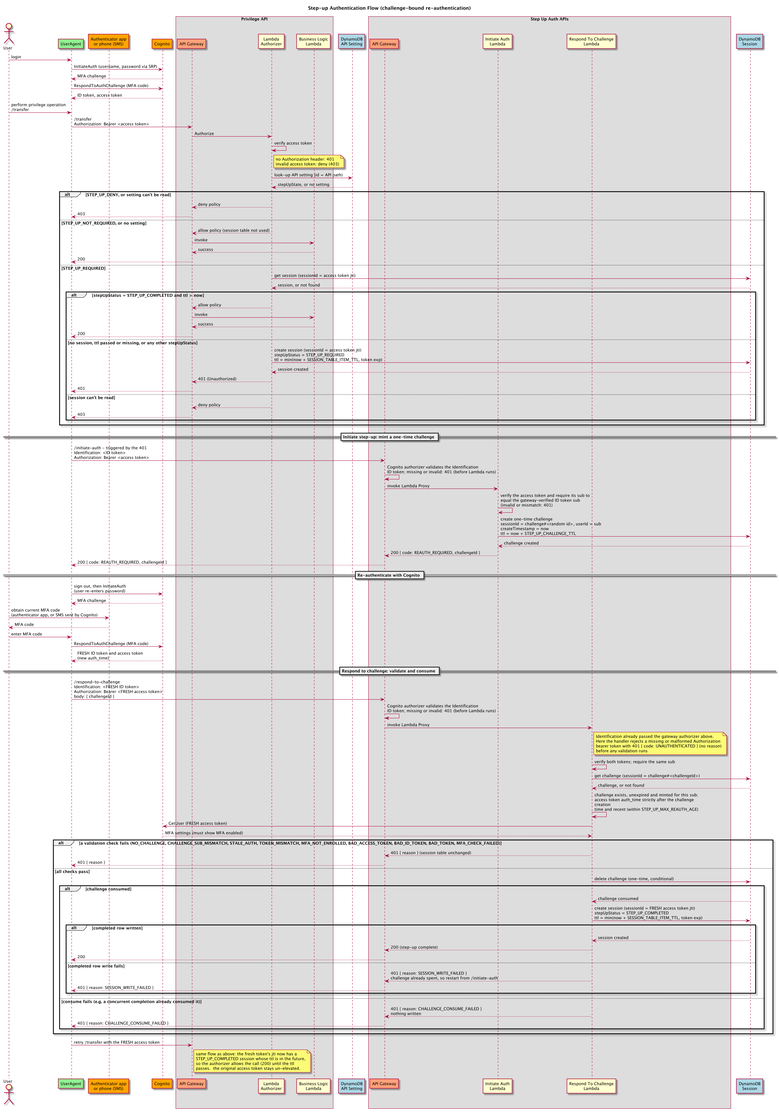
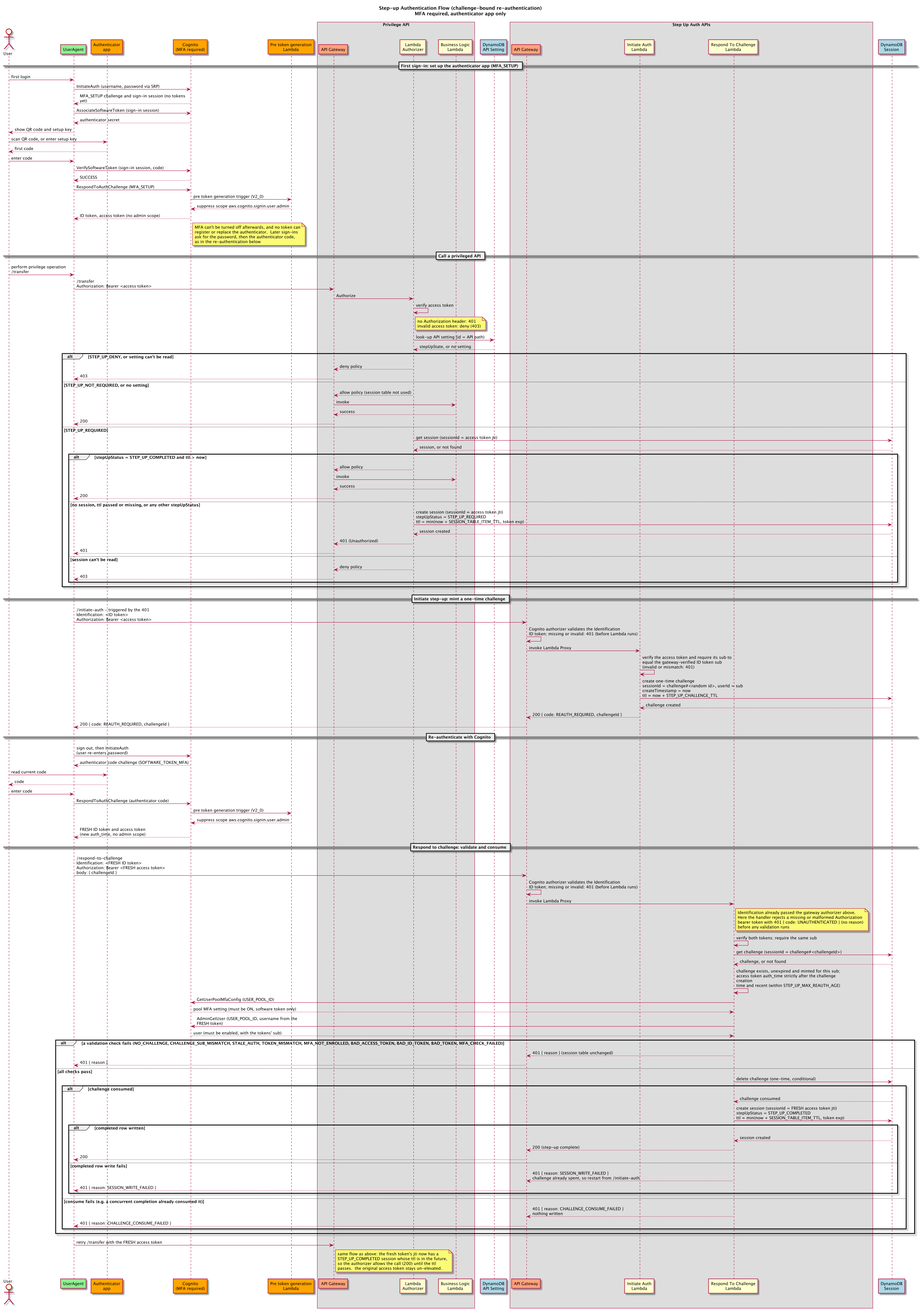
Documented required MFA and browser tokens without the user admin scope

diff --git a/README.md b/README.md
@@ -6,11 +6,12 @@
 >
 > - **Session expiry is now enforced in code.** Earlier versions relied on DynamoDB TTL to end a step-up session, and the authorizer didn't check `ttl`. Because DynamoDB can take days to delete expired items, a completed step-up stayed valid until the access token expired (up to 60 minutes by default), whatever `SESSION_TABLE_ITEM_TTL` was set to. The authorizer now rejects a session once its `ttl` has passed, and `ttl` is never later than the access token's expiry.
 > - **Step-up now requires a fresh re-authentication.** Earlier versions proved step-up by verifying or enrolling an MFA factor (an MFA enrolment or attribute-verification call) that the holder of a stolen access token could satisfy on its own. Step-up is now a fresh Cognito sign-in (password plus the user's existing MFA) bound to a one-time, server-issued challenge: the completion is accepted only when the freshly authenticated token's `auth_time` falls after the challenge was created, so a stolen access, id or refresh token can no longer complete step-up. See [Initiate Endpoint](#initiate-endpoint) and [Respond to Challenge Endpoint](#respond-to-challenge-endpoint).
+> - **Browser tokens can no longer manage MFA, and MFA is required.** Cognito access tokens carry the `aws.cognito.signin.user.admin` scope by default, so in earlier versions the holder of a stolen access token could turn MFA off, register their own authenticator or change the phone number before a step-up re-authentication. A pre token generation Lambda trigger now removes that scope from every access token the user pool issues. The user pool requires MFA with an authenticator app as the only factor: each user sets up the authenticator at first sign-in, and nobody can turn MFA off or change the factor from the app afterwards. The authenticator a step-up re-authentication uses is therefore always the one set up before the step-up challenge. The SMS factor and the web app's Setting page are removed. See [Security model and limitations](#security-model-and-limitations).
 > - **Amazon Cognito native step-up.** Amazon Cognito now offers [native step-up authentication with `acr`/`amr` claims](https://docs.aws.amazon.com/cognito/latest/developerguide/cognito-user-pools-step-up-authentication.html) (rolling out); this sample does not depend on it.
 > - **Other fixes:** the respond-to-challenge function now waits for the access token signature check and for the session update to be saved. Debug logs redact AWS credentials and tokens. The Lambda role can access only this solution's DynamoDB tables. The authorizer denies requests it can't evaluate, and an API's `STEP_UP_DENY` setting now applies even when the caller has completed step-up.
 > - **Platform:** the Lambda functions run on Node.js 24, the deployment uses AWS CDK v2, and the web app uses Amplify JS v6.
 > - **If you deployed an earlier version with `NODE_ENV=development`,** its Lambda log groups may contain the functions' temporary AWS credentials and users' tokens. Restrict access to those log groups or delete them.
-> - **Blog posts:** [Part 1](https://aws.amazon.com/blogs/security/implement-step-up-authentication-with-amazon-cognito-part-1-solution-overview/) and [Part 2](https://aws.amazon.com/blogs/security/implement-step-up-authentication-with-amazon-cognito-part-2-deploy-and-test-the-solution/) describe the original design. Where they differ from this README, this README and the code are current. In particular, the posts describe step-up as entering a one-time code, while this sample now requires a fresh re-authentication (password, then the MFA code) bound to a one-time challenge; and DynamoDB TTL now only removes old session rows, it doesn't end a step-up session.
+> - **Blog posts:** [Part 1](https://aws.amazon.com/blogs/security/implement-step-up-authentication-with-amazon-cognito-part-1-solution-overview/) and [Part 2](https://aws.amazon.com/blogs/security/implement-step-up-authentication-with-amazon-cognito-part-2-deploy-and-test-the-solution/) describe the original design. Where they differ from this README, this README and the code are current. In particular, the posts describe step-up as entering a one-time code, while this sample now requires a fresh re-authentication (password, then the MFA code) bound to a one-time challenge; the posts describe one-time codes sent by SMS and choosing an MFA method on a Setting page, while this sample now requires an authenticator app that each user sets up at first sign-in; and DynamoDB TTL now only removes old session rows, it doesn't end a step-up session.
 
 This repository contains accompanying source code for the AWS Security Blog posts [Implement step-up authentication with Amazon Cognito, Part 1: Solution overview](https://aws.amazon.com/blogs/security/implement-step-up-authentication-with-amazon-cognito-part-1-solution-overview/) and [Part 2: Deploy and test the solution](https://aws.amazon.com/blogs/security/implement-step-up-authentication-with-amazon-cognito-part-2-deploy-and-test-the-solution/).
 
@@ -36,17 +37,17 @@ The reference architecture is shown below.
 
 Let us traverse how user's API's request are handled by the solution, and how the user state is "elevated" by going through additional challenge before they can successfully invoke a privilege API.
 
-1. It is important to note that user must authenticate with Cognito initially.  As a result, they must have a valid access token generated by Cognito User Pool.
+1. It is important to note that user must authenticate with Cognito initially.  As a result, they must have a valid access token generated by Cognito User Pool.  The user pool requires MFA with an authenticator app (TOTP).  At a user's first sign-in, Cognito raises an `MFA_SETUP` challenge and issues no token until the user sets up the authenticator app: the web app shows a QR code and the setup key, and the user confirms with a first code.  Later sign-ins ask for the password and then the authenticator code.  A pre token generation Lambda trigger removes the `aws.cognito.signin.user.admin` scope from every access token the pool issues, so the token works for the sample APIs but can't call Cognito's self-service user operations.
 2. User then performs a privileged API invocation and passes access token in Authorization header.
 3. The API is protected using a Lambda Authorizer and the invocation triggers Lambda Authorizer.  Authorizer first validates the token using Cognito User Pool public key.  If the Authorization header is missing, the authorizer returns 401.  If the token is invalid, the authorizer returns a deny policy and the caller gets 403.
 4. Authorizer performs a look-up in DynamoDB setting table to check whether current request needs elevated privilege (or step-up privilege).  In setting table, you can define which API actions requires elevated privilege.  You can additionally bundle APIs into a group by defining the group attribute.  This allows you to further segregate privileged API's especially in a large-scale deployment.  If the API's setting is `STEP_UP_DENY`, the authorizer returns a deny policy (403), even if the user has completed step-up.  If the API has no setting, or its setting is `STEP_UP_NOT_REQUIRED`, the authorizer allows the call without checking the session table.
 5. If API request requires elevated privilege (`STEP_UP_REQUIRED`), Authorizer will check for an existing step-up session for this specific user in session table.  The key for this table will be the “JTI” of the access_token (which can be obtained after token verification).
 6. If a completed step-up session (`STEP_UP_COMPLETED`) exists and its `ttl` hasn't passed, then authorization will be given.  Otherwise the authorizer creates a new `STEP_UP_REQUIRED` session for the access_token JTI, and an un-authorized access response (401 HTTP code) will be sent back from lambda authorizer indicating that user requires elevated privilege.
 7. Prompted by the 401, the client app calls the /initiate-auth API.  This endpoint is protected by the API Gateway Cognito authorizer, which verifies the ID token passed in the `Identification` header.  The client also passes its access token in the `Authorization` header.
-8. The call is forwarded to the initiate Lambda.  The function verifies the caller's access token and requires its `sub` to equal the `sub` of the gateway-verified ID token, so a caller can only start step-up for the user Cognito authenticated (a forged or victim-substituted access token is rejected with 401).  It then mints a one-time, server-bound challenge: a random 128-bit `challengeId`, a `challenge#<challengeId>` row in the session table holding the user's `sub` and a server-set creation time, and a `ttl` of the creation time plus `STEP_UP_CHALLENGE_TTL`.  It returns `{"code":"REAUTH_REQUIRED","challengeId":"..."}`.  The initiate function no longer reads the user's MFA settings and sends no SMS.
-9. Prompted by `REAUTH_REQUIRED`, the client re-authenticates the user with Cognito: it signs the user out locally and signs in again with the password, then completes the MFA challenge Cognito raises (a code from the authenticator app for Software Token MFA, or an SMS code Cognito sends for SMS MFA).  A wrong password or wrong code can be retried.  This produces a fresh ID token and access token with a new `auth_time`.
-10. The client calls the /respond-to-challenge API, passing the fresh access token in the `Authorization` header, the fresh ID token in the `Identification` header and `{"challengeId"}` in the JSON body.  This endpoint is also protected by the Cognito authorizer.  The respond Lambda accepts step-up only when all of these hold: both tokens verify (signature, expiry, issuer, `token_use`, app client) and share the same `sub`; the challenge exists, has not expired and was minted for that `sub`; the access token's `auth_time` is after the challenge creation time (minus a small clock-skew allowance) and within `STEP_UP_MAX_REAUTH_AGE` of now (and not implausibly in the future); and Cognito `GetUser` shows the user has an MFA factor enabled.  A stolen or merely refreshed token fails the `auth_time` check because its authentication predates the challenge.
-11. The function validates first and only then writes.  A failure during validation (bad or mismatched tokens, a missing/expired/wrong-subject challenge, a stale `auth_time`, or no MFA enrolled) returns a 401 and leaves the session table unchanged.  If every check passes, it consumes the one-time challenge with a single conditional delete (so it cannot be replayed) and *then* writes a `STEP_UP_COMPLETED` row keyed by the **fresh** access token's JTI, with `ttl = min(now + SESSION_TABLE_ITEM_TTL, access token exp)`.  Because the challenge is consumed before the completed row is written, a failure to write that row (`SESSION_WRITE_FAILED`) leaves the challenge already spent, so the user must start a new step-up from /initiate-auth.  Every failure from the respond Lambda returns a short machine-readable `reason` (see [Respond to Challenge Endpoint](#respond-to-challenge-endpoint)).  The two header guards are separate: a missing or invalid `Identification` ID token is rejected by the API Gateway Cognito authorizer (its own 401) before this Lambda runs; once `Identification` is accepted, a missing or malformed `Authorization` bearer token is rejected by the handler with `{"code":"UNAUTHENTICATED"}` and no `reason`.
+8. The call is forwarded to the initiate Lambda.  The function verifies the caller's access token and requires its `sub` to equal the `sub` of the gateway-verified ID token, so a caller can only start step-up for the user Cognito authenticated (a forged or victim-substituted access token is rejected with 401).  It then mints a one-time, server-bound challenge: a random 128-bit `challengeId`, a `challenge#<challengeId>` row in the session table holding the user's `sub` and a server-set creation time, and a `ttl` of the creation time plus `STEP_UP_CHALLENGE_TTL`.  It returns `{"code":"REAUTH_REQUIRED","challengeId":"..."}`.  The initiate function doesn't read the user's MFA settings and sends no message to the user.
+9. Prompted by `REAUTH_REQUIRED`, the client re-authenticates the user with Cognito: it signs the user out locally and signs in again with the password, then completes the MFA challenge Cognito raises with a code from the user's authenticator app.  A wrong password or wrong code can be retried.  This produces a fresh ID token and access token with a new `auth_time`.
+10. The client calls the /respond-to-challenge API, passing the fresh access token in the `Authorization` header, the fresh ID token in the `Identification` header and `{"challengeId"}` in the JSON body.  This endpoint is also protected by the Cognito authorizer.  The respond Lambda accepts step-up only when all of these hold: both tokens verify (signature, expiry, issuer, `token_use`, app client) and share the same `sub`; the challenge exists, has not expired and was minted for that `sub`; the access token's `auth_time` is after the challenge creation time (minus a small clock-skew allowance) and within `STEP_UP_MAX_REAUTH_AGE` of now (and not implausibly in the future); Cognito `AdminGetUser` shows a live, enabled user whose `sub` matches the tokens; and Cognito `GetUserPoolMfaConfig` shows the user pool still requires MFA with the authenticator app as its only factor.  Because MFA is required, the fresh sign-in completed MFA with the authenticator set up at the user's first sign-in, before this challenge.  A stolen or merely refreshed token fails the `auth_time` check because its authentication predates the challenge.
+11. The function validates first and only then writes.  A failure during validation (bad or mismatched tokens, a missing/expired/wrong-subject challenge, a stale `auth_time`, or a failed user or MFA check) returns a 401 and leaves the session table unchanged.  If every check passes, it consumes the one-time challenge with a single conditional delete (so it cannot be replayed) and *then* writes a `STEP_UP_COMPLETED` row keyed by the **fresh** access token's JTI, with `ttl = min(now + SESSION_TABLE_ITEM_TTL, access token exp)`.  Because the challenge is consumed before the completed row is written, a failure to write that row (`SESSION_WRITE_FAILED`) leaves the challenge already spent, so the user must start a new step-up from /initiate-auth.  Every failure from the respond Lambda returns a short machine-readable `reason` (see [Respond to Challenge Endpoint](#respond-to-challenge-endpoint)).  The two header guards are separate: a missing or invalid `Identification` ID token is rejected by the API Gateway Cognito authorizer (its own 401) before this Lambda runs; once `Identification` is accepted, a missing or malformed `Authorization` bearer token is rejected by the handler with `{"code":"UNAUTHENTICATED"}` and no `reason`.
 12. The client re-tries the privileged API with the **fresh** access token.  The authorizer now finds its completed session and allows the call (200) until the `ttl` passes; other protected APIs that require step-up also succeed until then.  The original access token stays un-elevated, so a copy of it cannot ride along on the completed step-up.
 
 These sequences are better illustrated in the sequence diagram below.
@@ -133,7 +134,7 @@ Authorizer uses purpose build `auth-sdk` code to interface with both `sessions` 
 
 ### Initiate Endpoint
 
-The initiate endpoint is called by the frontend after the API Gateway returns a 401, to start the step-up flow.  Its role is to mint a one-time, server-bound challenge that the user will later prove they can satisfy by re-authenticating.  It does **not** read the user's MFA configuration and sends no SMS.
+The initiate endpoint is called by the frontend after the API Gateway returns a 401, to start the step-up flow.  Its role is to mint a one-time, server-bound challenge that the user will later prove they can satisfy by re-authenticating.  It does **not** read the user's MFA configuration and sends no message to the user.
 
 The endpoint requires no body parameters.  It is protected by the API Gateway Cognito authorizer, which verifies the Cognito ID token passed in the `Identification` header; the client also passes its access token in the `Authorization` header.  The Lambda cryptographically verifies that access token and requires its `sub` to equal the `sub` of the gateway-verified ID token.  Because the challenge subject comes from the gateway-verified ID token, not from the unverified `Authorization` value, a caller can only mint a challenge for the exact user Cognito authenticated; a forged or victim-substituted access token is rejected with a generic 401.
 
@@ -141,7 +142,7 @@ It then creates a challenge record in the session table: a random 128-bit `chall
 
 ### Respond to Challenge Endpoint
 
-The respond-to-challenge endpoint completes step-up.  Step-up is proven by a *fresh re-authentication that this step-up request prompted*, not by verifying or enrolling an MFA factor.  Prompted by `REAUTH_REQUIRED`, the client re-authenticates the user with Cognito (the password, then the user's existing MFA — a Software Token code from an authenticator app, or an SMS code Cognito sends), which yields a fresh ID token and access token.  The client then calls this endpoint with the fresh access token in the `Authorization` header, the fresh ID token in the `Identification` header and `{"challengeId"}` (from /initiate-auth) in the JSON body.  Like initiate, it is protected by the Cognito authorizer.
+The respond-to-challenge endpoint completes step-up.  Step-up is proven by a *fresh re-authentication that this step-up request prompted*, not by verifying or enrolling an MFA factor.  Prompted by `REAUTH_REQUIRED`, the client re-authenticates the user with Cognito (the password, then a code from the authenticator app the user set up at first sign-in), which yields a fresh ID token and access token.  The client then calls this endpoint with the fresh access token in the `Authorization` header, the fresh ID token in the `Identification` header and `{"challengeId"}` (from /initiate-auth) in the JSON body.  Like initiate, it is protected by the Cognito authorizer.
 
 The Lambda accepts step-up only when all of the following hold:
 
@@ -150,11 +151,14 @@ The Lambda accepts step-up only when all of the following hold:
 - the one-time challenge for the presented `challengeId` exists, has not expired and was minted for that same `sub`;
 - the access token's `auth_time` is strictly after the challenge's creation time, allowing only `STEP_UP_CHALLENGE_CLOCK_SKEW` seconds of clock skew — a stolen or merely refreshed token, whose authentication predates the challenge, is rejected here;
 - the authentication is recent: `auth_time` is within `STEP_UP_MAX_REAUTH_AGE` of now, and not more than `STEP_UP_REAUTH_FUTURE_SKEW` seconds in the future;
-- Cognito [GetUser](https://docs.aws.amazon.com/cognito-user-identity-pools/latest/APIReference/API_GetUser.html) (authorized by the fresh access token) shows an MFA factor enabled, so the fresh sign-in necessarily completed MFA.
+- Cognito [AdminGetUser](https://docs.aws.amazon.com/cognito-user-identity-pools/latest/APIReference/API_AdminGetUser.html) returns the token's user, the user is not disabled, and the user's `sub` attribute equals the tokens' `sub`; otherwise, or if the call fails, the reason is `MFA_CHECK_FAILED`;
+- Cognito [GetUserPoolMfaConfig](https://docs.aws.amazon.com/cognito-user-identity-pools/latest/APIReference/API_GetUserPoolMfaConfig.html) shows the user pool requires MFA (`MfaConfiguration` `ON`) with the software token (authenticator app) enabled and no SMS or email MFA; otherwise the reason is `MFA_NOT_ENROLLED`, and if the call fails, `MFA_CHECK_FAILED`.  Because the pool requires MFA and no token can change a user's factor, the fresh sign-in completed MFA with the authenticator the user set up at first sign-in, which predates the challenge.  The function doesn't use the per-user MFA list that `AdminGetUser` returns: Cognito leaves it empty for a user who set up the authenticator through the first sign-in `MFA_SETUP` challenge, although the pool still requires that user's authenticator code at every sign-in.
+
+These two calls use the respond-to-challenge function's role, which may call `cognito-idp:AdminGetUser` and `cognito-idp:GetUserPoolMfaConfig` on this user pool only.  The function reads the pool id from its `USER_POOL_ID` environment variable and fails closed with `MFA_CHECK_FAILED` if it is missing, isn't a user pool id, or names a different pool than `COGNITO_USER_POOL_ARN`.
 
 The checks run in that order, and the `sessions` table is written only after they all pass.  A validation failure returns a 401, leaves the `sessions` table unchanged, and carries a short machine-readable `reason` — one of `NO_CHALLENGE`, `CHALLENGE_SUB_MISMATCH`, `STALE_AUTH`, `TOKEN_MISMATCH`, `MFA_NOT_ENROLLED`, `BAD_ACCESS_TOKEN`, `BAD_ID_TOKEN`, `BAD_TOKEN` or `MFA_CHECK_FAILED` — that never reveals a secret.  When every check passes, the function consumes the one-time challenge with a single conditional delete (so replaying the same challenge cannot complete a second time) and *then* writes a `STEP_UP_COMPLETED` row keyed by the **fresh** access token's JTI with `ttl = min(now + SESSION_TABLE_ITEM_TTL, access token exp)`.  Two more `reason` codes come from this final stage and are not symmetric with the validation failures: `CHALLENGE_CONSUME_FAILED` means the conditional delete didn't succeed (for example a concurrent completion consumed the challenge first), so nothing is written; `SESSION_WRITE_FAILED` means the challenge was already consumed but the completed row couldn't be written, which leaves the challenge spent and requires the user to start a new step-up from /initiate-auth.  Separately, the endpoint has two header guards.  The API Gateway Cognito authorizer validates the `Identification` ID token, so a missing or invalid `Identification` token is rejected by the gateway's authorizer with a 401 before this Lambda runs.  Once `Identification` is accepted, a request whose `Authorization` bearer token is missing or malformed is rejected by the handler before the responder runs, with a 401 body of `{"code":"UNAUTHENTICATED"}` and no `reason`.  A completed session is valid until its `ttl` passes; after that, the authorizer treats it as expired.  DynamoDB TTL deletes the item later, which can take a few days.
 
-The step-up proof no longer uses `VerifySoftwareToken` or `VerifyUserAttribute`, and the initiate endpoint no longer calls `GetUserAttributeVerificationCode`; the old `SMS_STEP_UP`, `SOFTWARE_TOKEN_STEP_UP` and `MAYBE_SOFTWARE_TOKEN_STEP_UP` codes are gone.  MFA **enrolment** in the web app's Setting page is unchanged and still uses `AssociateSoftwareToken` / `VerifySoftwareToken`, which is their correct purpose.
+The step-up proof no longer verifies or enrols an MFA factor, and the earlier one-time-code calls and their MFA method codes are gone.  A user sets up MFA once, at first sign-in: Cognito's `MFA_SETUP` challenge calls `AssociateSoftwareToken` and `VerifySoftwareToken` with the sign-in session, not with an access token, and only then issues tokens.  After that, the user can't change or turn off MFA: the web app has no MFA settings page, the sample has no MFA API, and the access tokens lack the scope that Cognito's own MFA operations require.  See [Security model and limitations](#security-model-and-limitations).
 
 ### Step-up configuration
 
@@ -180,7 +184,8 @@ This solution can be deployed using CDK and it will create a working reference i
 
 CDK will create several resources in your account as below:
 
-- Amazon Cognito User pool that is used as user registry
+- Amazon Cognito User pool that is used as user registry.  It requires MFA with the authenticator app (software token) as the only factor, has no SMS factor, requires `email` and `phone_number` at registration and doesn't remember devices.  It uses the Essentials feature plan, which the pre token generation trigger needs.
+- A pre token generation Lambda trigger (event version V2_0, inline code in `deployment/lib/infrastructure/pre-token-generation.ts`) that removes the `aws.cognito.signin.user.admin` scope from every access token the user pool issues.  It has its own role, which can only write the trigger's log group.
 - API Gateway API containing four resources,
   - two sample resources protected by the Lambda authorizer: `/transfer` (POST), which requires step-up authentication once you add its setting (see [Testing Step-up Solution](#testing-step-up-solution)), and `/info` (GET)
   - initiate-auth resource to trigger the step-up challenge response
@@ -254,7 +259,7 @@ cd deployment && ./undeploy.sh
 
 `undeploy.sh` runs `cdk destroy --all --force`.  CDK synthesizes the app first, so the Lambda zip files from `build.sh` must still be under `source/<module>/build/compressed/`.  The Cognito user pool, the DynamoDB tables and the web bucket use a `DESTROY` removal policy, so this deletes the Cognito user pool (and its users), the DynamoDB tables (and their items) and the web bucket (and its objects).  `undeploy.sh` doesn't remove the CDK bootstrap stack (`CDKToolkit`).
 
-`undeploy.sh` also doesn't remove the Lambda CloudWatch log groups.  The deployment creates a log group for each of the four Lambda functions with a `RETAIN` removal policy (set by the `@aws-cdk/aws-lambda:useCdkManagedLogGroup` flag in `deployment/cdk.json`), so `cdk destroy` keeps them.  The helper function that empties the web bucket also leaves its log group behind.  All of these log group names start with `/aws/lambda/StepUpAuth`, and so do the log groups of an earlier version of this sample deployed in the same account and region.  List them, check that the list holds only log groups you want to remove, then delete them:
+`undeploy.sh` also doesn't remove the Lambda CloudWatch log groups.  The deployment creates a log group for each of the four Lambda functions with a `RETAIN` removal policy (set by the `@aws-cdk/aws-lambda:useCdkManagedLogGroup` flag in `deployment/cdk.json`), so `cdk destroy` keeps them.  The helper function that empties the web bucket also leaves its log group behind.  The pre token generation trigger is a fifth function: its log group is created with a `DESTROY` removal policy, so `cdk destroy` deletes it with the Cognito stack.  All of the retained log group names start with `/aws/lambda/StepUpAuth`, and so do the log groups of an earlier version of this sample deployed in the same account and region.  List them, check that the list holds only log groups you want to remove, then delete them:
 
 ```sh
 aws logs describe-log-groups --region "$AWS_REGION" --log-group-name-prefix /aws/lambda/StepUpAuth \
@@ -314,23 +319,19 @@ Launch your web browser and load the CloudFront URL.  You will be presented with
 
 ![](documentation/web-app-1.png)
 
-Register a new user.  Use an email address you can receive mail at: Cognito emails a verification code that you must enter to confirm the account, and the phone number is used for SMS MFA.  The default Cognito email sender is for testing only and has a low [daily sending limit](https://docs.aws.amazon.com/cognito/latest/developerguide/limits.html); for automated tests, create users with the [admin-create-user](https://docs.aws.amazon.com/cli/latest/reference/cognito-idp/admin-create-user.html) API (with `--message-action SUPPRESS`) and set a password with `admin-set-user-password`, which send no email.
+Register a new user.  The user pool requires an email address and a phone number at registration.  Use an email address you can receive mail at: Cognito emails a verification code that you must enter to confirm the account.  The phone number is only a profile attribute, not an MFA factor: the user pool has no SMS factor.  The default Cognito email sender is for testing only and has a low [daily sending limit](https://docs.aws.amazon.com/cognito/latest/developerguide/limits.html); for automated tests, create users with the [admin-create-user](https://docs.aws.amazon.com/cli/latest/reference/cognito-idp/admin-create-user.html) API (with `--message-action SUPPRESS`) and set a password with `admin-set-user-password`, which send no email.
 
 ![](documentation/web-app-2.png)
 
-You are returned to the login screen.  Log in with the user you just registered to reach the welcome screen.
+You are returned to the login screen.  Log in with the user you just registered.  Because the user pool requires MFA, the first sign-in asks you to set up an authenticator app: scan the QR code with the app, or enter the setup key shown under it, then enter the code the app shows and select Verify.  Cognito issues your tokens only after this step, and you reach the welcome screen.  Later sign-ins ask for your password and then the code from the authenticator app.  The web app has no page for changing or removing the authenticator; see [Security model and limitations](#security-model-and-limitations).
 
 ![](documentation/web-app-3.png)
-
-Go into the Setting menu and choose a Preferred MFA.  The example below selects SMS; you can equally enrol and prefer Software Token (an authenticator app).  Step-up requires an enrolled MFA factor, and the re-authentication below works the same way for either factor.
-
-![](documentation/web-app-4.png)
 
 Go into the StepUp Auth menu and choose Invoke Transfer API.  Because /transfer requires step-up, you get a 401 and the app starts step-up by asking you to re-authenticate, beginning with your password.
 
 ![](documentation/web-app-5.png)
 
-Re-enter your password and select Re-authenticate.  The app signs you back in with Cognito, which raises your MFA challenge and asks for the current MFA code (an SMS code, or the code from your authenticator app as shown here).
+Re-enter your password and select Re-authenticate.  The app signs you back in with Cognito, which raises your MFA challenge and asks for the current code from your authenticator app.
 
 ![](documentation/web-app-7.png)
 
@@ -346,22 +347,33 @@ The step-up session ends after `SESSION_TABLE_ITEM_TTL` seconds (900 by default)
 
 This solution calls several Amazon Cognito APIs.  Cognito applies [rate limits per API category](https://docs.aws.amazon.com/cognito/latest/developerguide/limits.html#category_operations), and calls that exceed the assigned quota are throttled.
 
-Because step-up now re-authenticates the user, the Cognito calls on the step-up path are the sign-in operations [InitiateAuth and RespondToAuthChallenge](https://docs.aws.amazon.com/cognito-user-identity-pools/latest/APIReference/API_InitiateAuth.html) (the user-authentication category) performed by the client during re-authentication, and [GetUser](https://docs.aws.amazon.com/cognito-user-identity-pools/latest/APIReference/API_GetUser.html) (the user-read category), which the respond-to-challenge endpoint uses to confirm an MFA factor is enabled.  The earlier step-up path used `GetUserAttributeVerificationCode`, `VerifyUserAttribute` and `VerifySoftwareToken`; those are no longer on the step-up path.  Each category has its own quota, so the effective throughput of a protected API is bounded by the lowest quota among the categories its step-up flow touches.  Check your account's current quotas in the Service Quotas console rather than assuming a fixed requests-per-second figure, and note that the Cognito SMS and email senders have their own [sending limits](https://docs.aws.amazon.com/cognito/latest/developerguide/limits.html).
+Because step-up now re-authenticates the user, the Cognito calls on the step-up path are the sign-in operations [InitiateAuth and RespondToAuthChallenge](https://docs.aws.amazon.com/cognito-user-identity-pools/latest/APIReference/API_InitiateAuth.html) (the user-authentication category) performed by the client during re-authentication, and two calls the respond-to-challenge function makes: [AdminGetUser](https://docs.aws.amazon.com/cognito-user-identity-pools/latest/APIReference/API_AdminGetUser.html) (the user-read category) and [GetUserPoolMfaConfig](https://docs.aws.amazon.com/cognito-user-identity-pools/latest/APIReference/API_GetUserPoolMfaConfig.html) (the user-pool-resource-read category).  A user's first sign-in also calls `AssociateSoftwareToken` and `VerifySoftwareToken` (the user-resource-update category) to set up the authenticator app.  The earlier one-time-code calls are no longer on the step-up path.  Each category has its own quota, so the effective throughput of a protected API is bounded by the lowest quota among the categories its step-up flow touches.  Check your account's current quotas in the Service Quotas console rather than assuming a fixed requests-per-second figure, and note that the Cognito email sender has its own [sending limits](https://docs.aws.amazon.com/cognito/latest/developerguide/limits.html).
 
 ## Security model and limitations
 
+Step-up must accept only an MFA factor that was set up before the step-up challenge.  Cognito doesn't record when a user's MFA factor was set up, so the respond-to-challenge function can't compare a factor-setup time with the challenge time.  The sample makes the property hold by construction instead:
+
+- **No browser token can manage MFA or user attributes, on any path.**  A pre token generation Lambda trigger removes the `aws.cognito.signin.user.admin` scope from every access token the user pool issues: at sign-in, at the step-up re-authentication, after a new-password challenge and on a token refresh.  The trigger has no exceptions.  Without that scope, an access token can't call the Cognito operations that a user authorizes with their own access token, such as `AssociateSoftwareToken`, `VerifySoftwareToken`, `SetUserMFAPreference`, `UpdateUserAttributes` or `GetUser`.  The sample APIs don't need the scope.
+- **MFA is required, and set up once at first sign-in.**  The user pool requires MFA with the authenticator app (TOTP) as the only factor.  Cognito issues no token until the user has set up the authenticator through the first sign-in `MFA_SETUP` challenge, which uses the sign-in session, not an access token.  After that, MFA can't be turned off, and the sample has no page or API that registers or replaces a factor.
+- **So the factor always predates the challenge.**  The authenticator that a step-up re-authentication uses is the one set up at first sign-in, before any step-up challenge existed.  The respond-to-challenge function also checks the user pool on every completion and refuses step-up if the pool no longer requires MFA with the authenticator app only, so a pool whose MFA setting drifts fails closed.
+
 What this step-up design protects against:
 
-- Completing step-up with a **stolen access, ID or refresh token** — including after an attacker enrols their own authenticator or changes the phone number — because completion requires a fresh re-authentication whose `auth_time` falls after the one-time challenge, and a stolen or refreshed token's authentication predates it.
+- Completing step-up with a **stolen access, ID or refresh token**, because completion requires a fresh re-authentication whose `auth_time` falls after the one-time challenge, and a stolen or refreshed token's authentication predates it.
+- **Preparing a stolen access token for step-up** by first turning the user's MFA off, registering the attacker's own authenticator in place of the user's, or changing the user's phone number.  The token has no `aws.cognito.signin.user.admin` scope, so Cognito rejects each of these calls.  The phone number isn't an MFA factor either, because the user pool has no SMS factor.
 - Using **another user's ID token**: the initiate and respond endpoints bind both the challenge and the presented tokens to a single `sub`.
 - **Replaying a challenge**: the challenge is one-time and is consumed with a single conditional delete on success.
 
 What it does **not** protect against (state these plainly to anyone deploying it):
 
+- **The first factor (the password) before first sign-in.**  Someone who learns the user's password between account creation and the user's first sign-in can sign in first and set up their own authenticator.  Deliver initial passwords over a trusted channel and keep this window short.
 - An access token stolen **after** step-up completes is elevated until the step-up session `ttl` or the token's own expiry, whichever is sooner.
-- An attacker who has **both** the user's password and the user's MFA factor can re-authenticate as the user; step-up, like any re-authentication, cannot distinguish them from the user.
-- A stolen access token still carries the `aws.cognito.signin.user.admin` scope, so it can change the user's own MFA or attributes.  That is a harassment / account-integrity concern, not a step-up bypass — it does not elevate the stolen token for a protected API.
-- Users **without** an enrolled MFA factor cannot step up: the respond endpoint requires MFA to be enabled.
+- A **live adversary-in-the-middle** (a phishing proxy) or **script injected into the web app (XSS)** can capture the password and a current authenticator code, or the tokens, while the user signs in.  Authenticator codes aren't phishing-resistant.  Phishing-resistant passkeys (WebAuthn) are the durable answer.  The Essentials feature plan this user pool uses supports them, but this sample doesn't enable them.
+- An attacker who has **both** the user's password and the user's authenticator can re-authenticate as the user; step-up, like any re-authentication, cannot distinguish them from the user.
+- **A lost or replaced authenticator.**  Users can't change their own MFA, so recovering an account whose authenticator is lost is an operator task.  The sample includes no recovery flow; that is out of scope.
+- **Existing user pools.**  The sample creates its user pool with MFA required from the start.  It doesn't show how to move an existing pool's users who have no MFA or only an SMS factor to required authenticator MFA.  Those users must set up an authenticator again, and that migration is out of scope.
+- **Administrators.**  An AWS principal with Cognito administrator permissions on the user pool is outside this model.  Restrict those permissions.
+- If your app needs users to update their own profile, add a backend API for it that requires step-up and calls Cognito with its own credentials; don't restore the `aws.cognito.signin.user.admin` scope to browser tokens.
 - The sample sets CORS `Access-Control-Allow-Origin: *` on the APIs.  Restricting CORS to your web origin is recommended as separate hardening and is not part of this change.
 
 ## Conclusion

diff --git a/deployment/README.md b/deployment/README.md
@@ -17,11 +17,18 @@ Prerequisites: Node.js 24 and npm 11 (the Lambda functions run on `nodejs24.x`),
 * `npx cdk diff`    compare deployed stack with current state
 * `npx cdk deploy --all`  deploy all 7 stacks to the account and region set below (`./deploy.sh` also bootstraps the account and uploads the web app)
 
-The app reads these context values: `aws_account`, `aws_region`, `env_prefix`, `node_env`, and the optional step-up tuning values `session_table_item_ttl` (default 900, range 60–900), `step_up_challenge_ttl` (default 600, range 60–900), `step_up_max_reauth_age` (default 120, range 30–900), `step_up_challenge_clock_skew` (default 1, range 0–10) and `step_up_reauth_future_skew` (default 5, range 0–10).  An out-of-range step-up value fails the deployment.  The `AWS_ACCOUNT`, `AWS_REGION` and `NODE_ENV` environment variables, when set, take precedence over `aws_account`, `aws_region` and `node_env`.  For example, to synthesize without deploying:
+The app reads these context values: `aws_account`, `aws_region`, `env_prefix`, `node_env`, and the optional step-up tuning values `session_table_item_ttl` (default 900, range 60–900), `step_up_challenge_ttl` (default 600, range 60–900), `step_up_max_reauth_age` (default 120, range 30–900), `step_up_challenge_clock_skew` (default 1, range 0–10) and `step_up_reauth_future_skew` (default 5, range 0–10).  An out-of-range step-up value fails the deployment.  The user pool's MFA setting is not a context value: the CDK code fixes it at required, with the software token (authenticator app) as the only factor, and a unit test fails if that changes.  The `AWS_ACCOUNT`, `AWS_REGION` and `NODE_ENV` environment variables, when set, take precedence over `aws_account`, `aws_region` and `node_env`.  For example, to synthesize without deploying:
 
 ```sh
 npx cdk synth -c aws_region=us-east-1 -c aws_account=123456789012 -c env_prefix=dev -c node_env=development
 ```
+
+The Cognito stack creates the user pool, its web app client and a pre token generation Lambda trigger:
+
+* the user pool requires MFA with the software token (authenticator app) as the only factor, requires the `email` and `phone_number` attributes, doesn't remember devices and uses the Essentials feature plan;
+* the trigger (event version V2_0, inline code from `lib/infrastructure/pre-token-generation.ts`) removes the `aws.cognito.signin.user.admin` scope from every access token the pool issues.  It has its own role, which can only write the trigger's log group.
+
+The Lambda stack gives the respond-to-challenge function the user pool id (`USER_POOL_ID`) and a policy that allows `cognito-idp:AdminGetUser` and `cognito-idp:GetUserPoolMfaConfig` on this user pool only.
 
 ## Deployment steps
 
@@ -70,7 +77,7 @@ To remove the solution, run `undeploy.sh` with the same variables.  It runs `cdk
 cd deployment && ./undeploy.sh
 ```
 
-The Lambda CloudWatch log groups are not removed either.  `cdk.json` sets `@aws-cdk/aws-lambda:useCdkManagedLogGroup` to `true`, so CDK creates a log group for each of the four Lambda functions with a `RETAIN` removal policy, and `cdk destroy` keeps them.  The helper function that empties the web bucket also leaves its log group behind.  Their names start with `/aws/lambda/StepUpAuth`, as do the log groups of an earlier version of this sample in the same account and region.  List them, check the list, then delete them (this permanently deletes their log events):
+The Lambda CloudWatch log groups are not removed either.  `cdk.json` sets `@aws-cdk/aws-lambda:useCdkManagedLogGroup` to `true`, so CDK creates a log group for each of the four Lambda functions with a `RETAIN` removal policy, and `cdk destroy` keeps them.  The helper function that empties the web bucket also leaves its log group behind.  The pre token generation trigger's log group is the exception: it has a `DESTROY` removal policy, so `cdk destroy` deletes it.  The retained log groups' names start with `/aws/lambda/StepUpAuth`, as do the log groups of an earlier version of this sample in the same account and region.  List them, check the list, then delete them (this permanently deletes their log events):
 
 ```sh
 aws logs describe-log-groups --region "$AWS_REGION" --log-group-name-prefix /aws/lambda/StepUpAuth \
@@ -90,5 +97,15 @@ cd source/sample-web-app && npm ci
 npm start -- --env USER_POOL_ID=<UserPoolId> --env CLIENT_ID=<UserPoolClientId> \
   --env API_GATEWAY_API_NAME=step-up-auth --env API_GATEWAY_API_ENDPOINT=<StageUrl> --env AWS_REGION=us-east-1
 ```
+
+## Deploying a function with the AWS CLI scripts
+
+Each Lambda module under `source/` also has a `deploy-awscli.sh` script that creates or updates that one function against resources that already exist.  These scripts don't create the user pool.  If you use them instead of CDK, configure the user pool yourself the way the Cognito stack does:
+
+* MFA required, with the software token (authenticator app) as the only factor, and no other MFA factor;
+* the Essentials feature plan, and a pre token generation trigger with event version V2_0 that removes `aws.cognito.signin.user.admin` from every access token (the handler source is in `lib/infrastructure/pre-token-generation.ts`);
+* `email` and `phone_number` required, and no remembered devices.
+
+`source/step-up-challenge/deploy-awscli.sh` sets the function's `USER_POOL_ID` to the pool id at the end of `COGNITO_UP_ARN` and checks its shape.  Before it deploys, it reads the pool's MFA configuration (`aws cognito-idp get-user-pool-mfa-config`) and exits without deploying unless MFA is required with the software token only.  The role in `AWS_LAMBDA_ROLE_ARN` must allow `cognito-idp:AdminGetUser` and `cognito-idp:GetUserPoolMfaConfig` on that user pool, and the credentials that run the script need `cognito-idp:GetUserPoolMfaConfig` too.
 
 For further details, refer to project [README.md](../README.md)
